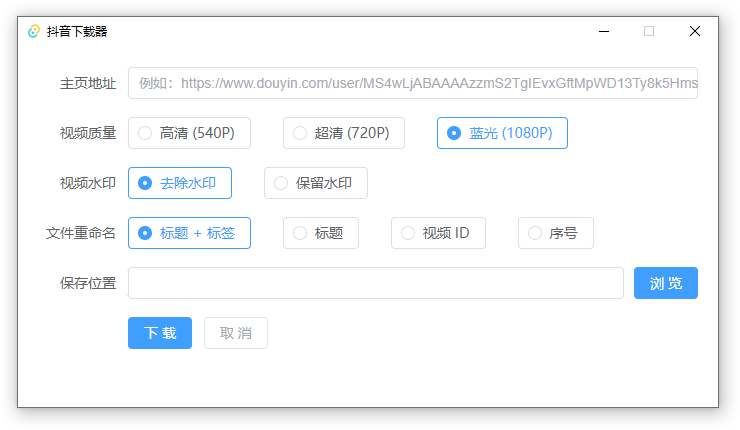
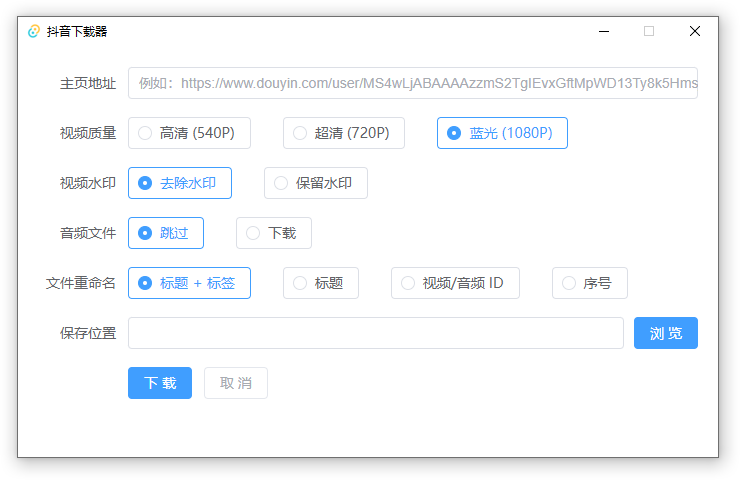
feat: add audio options

diff --git a/src/components/main/index.vue b/src/components/main/index.vue
@@ -2,7 +2,9 @@
 <style scoped lang="stylus" src="./index.styl"></style>
 <script setup lang="ts">
 import { NameType } from '@/enums'
+import { generateVideoURL } from '@/utils'
 import { invoke, http, dialog } from '@tauri-apps/api'
+import { basename } from '@tauri-apps/api/path'
 import { ElButton, ElForm, ElFormItem, ElInput, ElProgress, ElDivider, ElMessage, ElRadioGroup, ElRadio, ElRadioButton } from 'element-plus'
 import { computed, ref } from 'vue'
 
@@ -33,6 +35,7 @@ const onSubmit = async () => {
   total.value = 0
   successCount.value = 0
   failureCount.value = 0
+  isListCompleted = false
 
   if (!form.value.homeURL) return ElMessage.error('请输入用户主页地址')
   if (!form.value.savePath) return ElMessage.error('请选择保存位置')
@@ -72,6 +75,13 @@ const requsetList = (sec_uid: string, max_cursor: string) => {
 
         data.aweme_list.forEach(async (v: any, i: number) => {
           const { desc, video } = v
+          const { vid } = video
+          const isAudio = !vid
+
+          /** skip audio */
+          if (isAudio && !form.value.audio) return
+
+          const url = isAudio ? video.play_addr.url_list[0] : generateVideoURL(vid, form.value.ratio, form.value.watermark)
 
           let name = ''
           switch (form.value.nameType) {
@@ -83,25 +93,20 @@ const requsetList = (sec_uid: string, max_cursor: string) => {
               if (index === -1) name = desc.trim()
               else name = desc.substring(0, index).trim()
               break
-            case NameType.VID:
-              name = video.vid
+            case NameType.ID:
+              name = isAudio ? await basename(url, '.mp3') : vid
               break
             case NameType.Index:
               name = (total.value - data.aweme_list.length + i + 1).toString()
               break
           }
 
-          if (video.vid) {
-            const url = `https://aweme.snssdk.com/aweme/v1/play/?video_id=${video.vid}&ratio=${form.value.ratio}&watermark=${form.value.watermark}`
-            const path = `${form.value.savePath}/${name}.mp4`
-            invoke('download', { url, path })
-              .then(() => successCount.value++)
-              .catch(() => failureCount.value++)
-              .finally(() => isListCompleted && percent.value === 100 && (isDownloading.value = false))
-          } else {
-            console.error('vid is null', v)
-            failureCount.value++
-          }
+          const ext = isAudio ? '.mp3' : '.mp4'
+          const path = `${form.value.savePath}/${name}${ext}`
+          invoke('download', { url, path })
+            .then(() => successCount.value++)
+            .catch(() => failureCount.value++)
+            .finally(() => isListCompleted && percent.value === 100 && (isDownloading.value = false))
         })
       } else {
         console.log('over')

diff --git a/src/utils/index.ts b/src/utils/index.ts
@@ -1,1 +1,5 @@
 export const sleep = (delay?: number) => new Promise<void>((resole) => setTimeout(resole, delay))
+
+export const generateVideoURL = (vid: string, ratio: string, watermark: number) => {
+  return `https://aweme.snssdk.com/aweme/v1/play/?video_id=${vid}&ratio=${ratio}&watermark=${watermark}`
+}

diff --git a/src/enums/index.ts b/src/enums/index.ts
@@ -3,8 +3,8 @@ export enum NameType {
   TitleTag,
   /** 标题 */
   Title,
-  /** 视频 ID */
-  VID,
+  /** 视频/音频 ID */
+  ID,
   /** 序号 */
   Index,
   /** MD5 */
